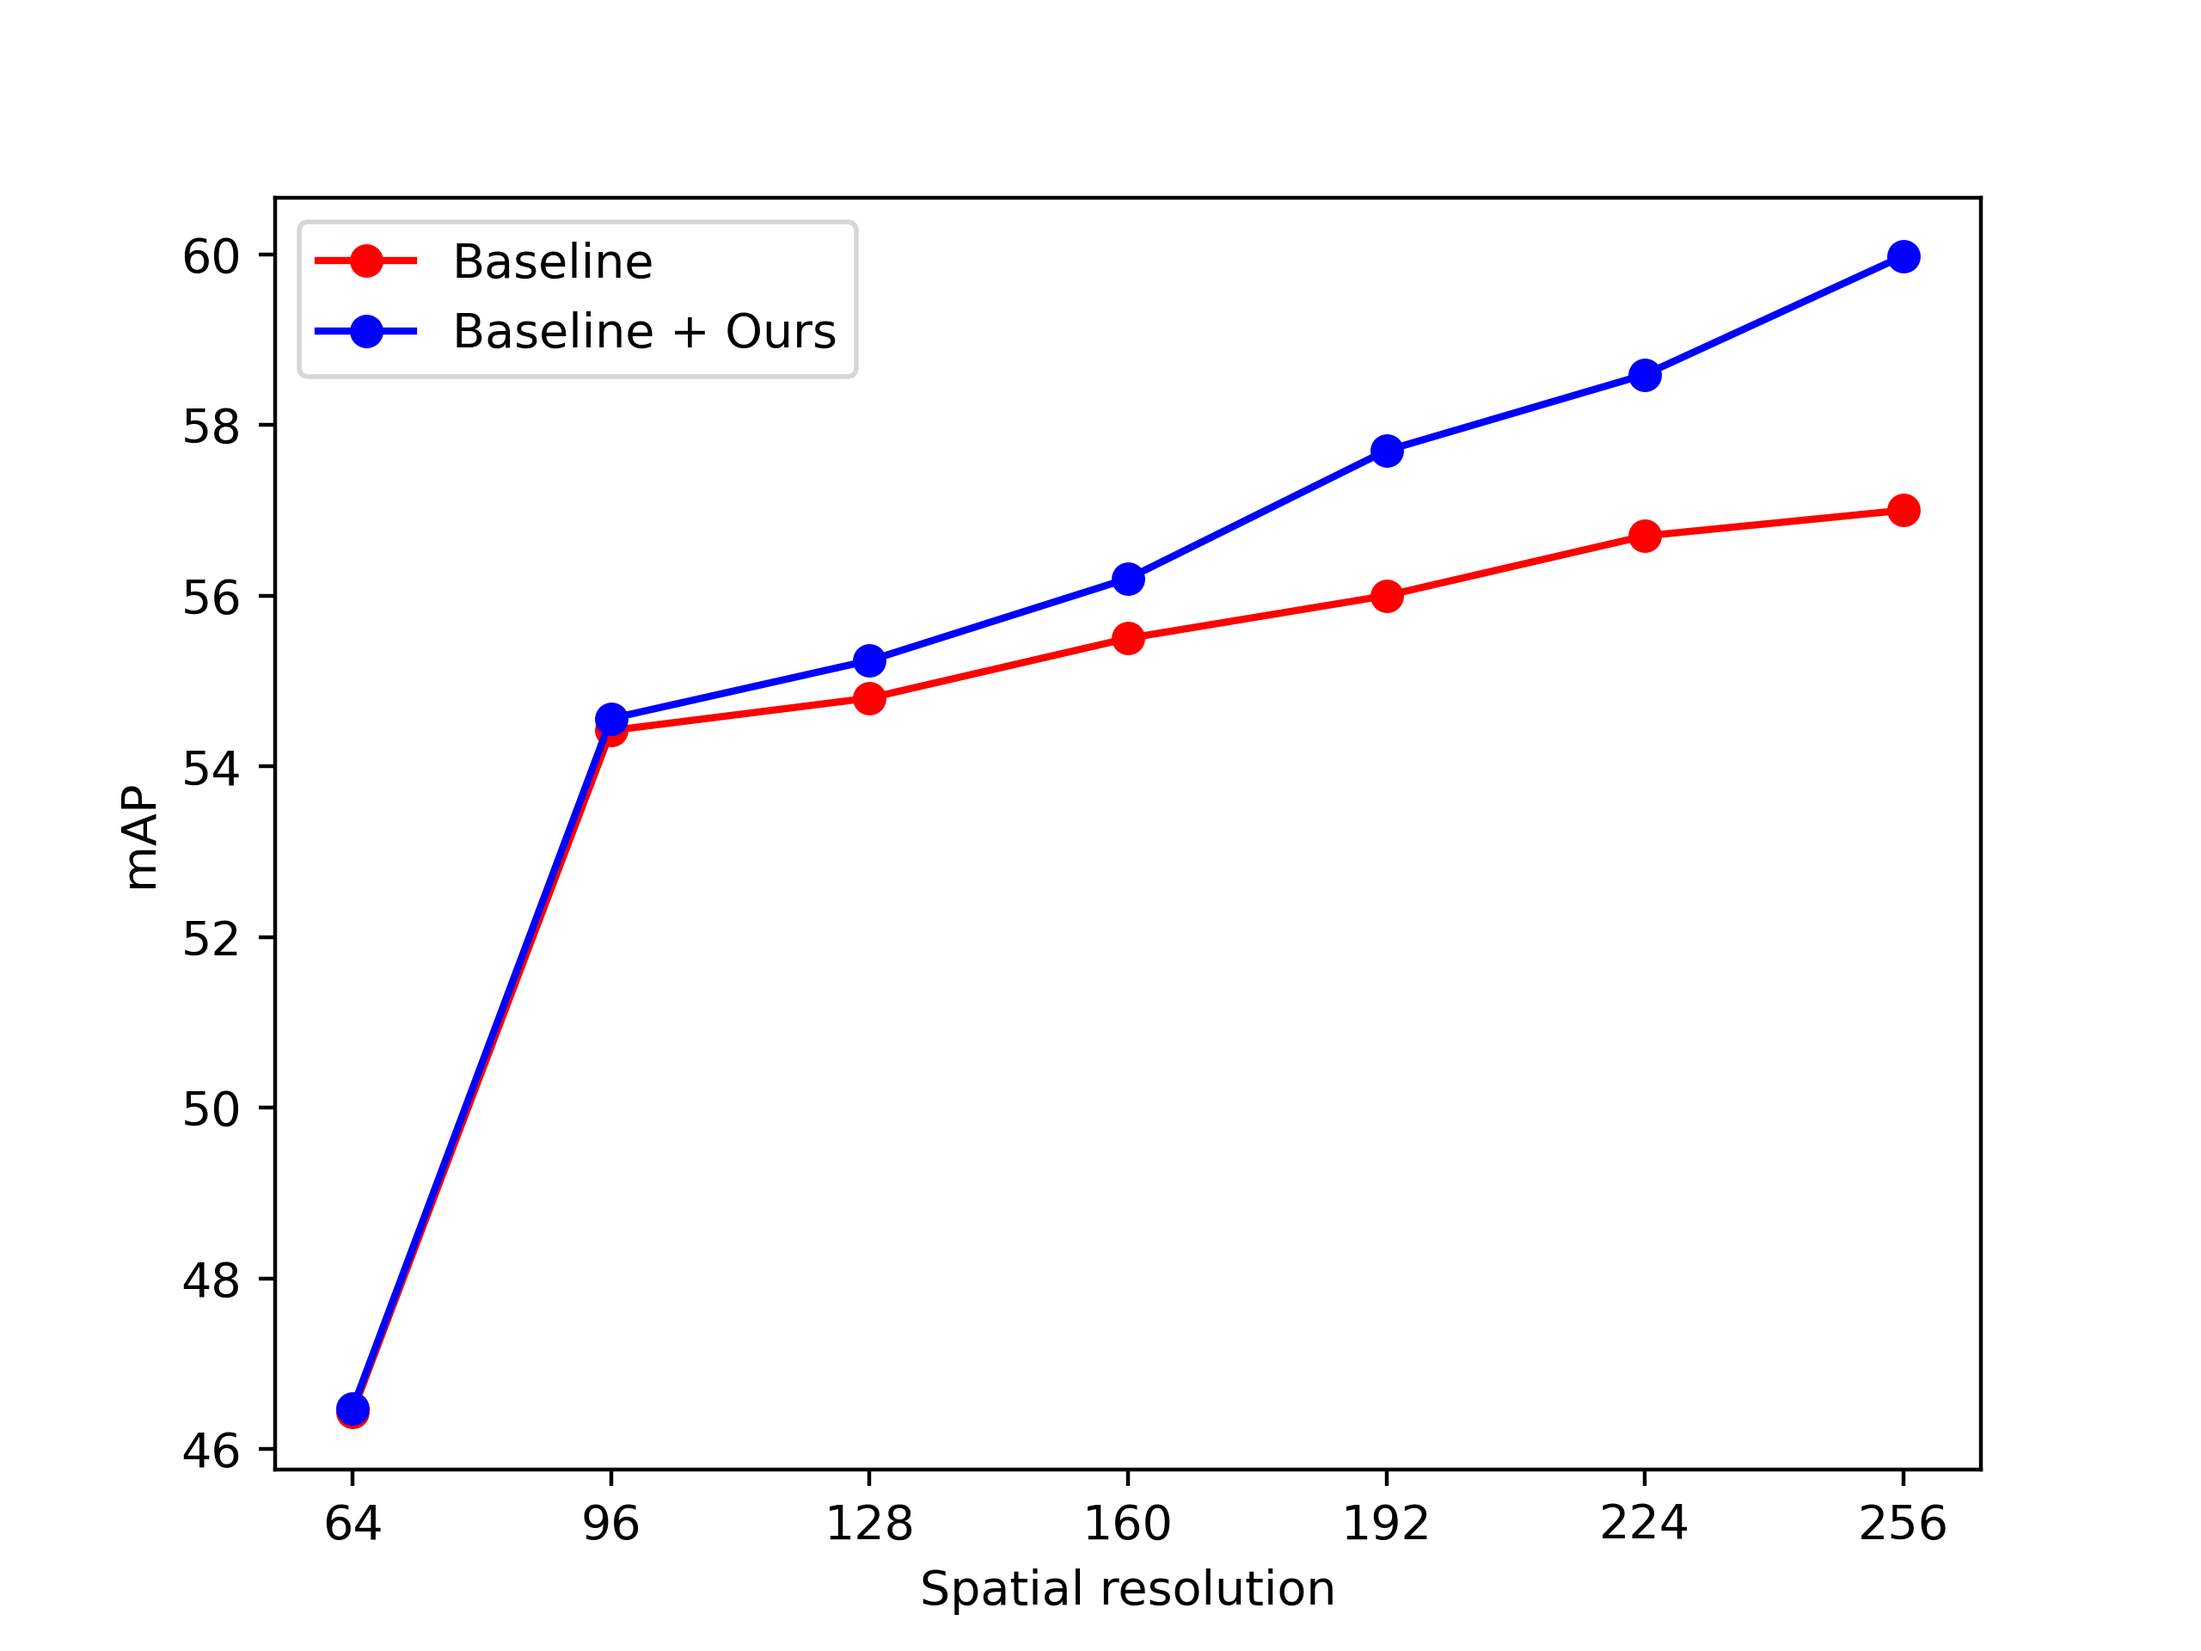
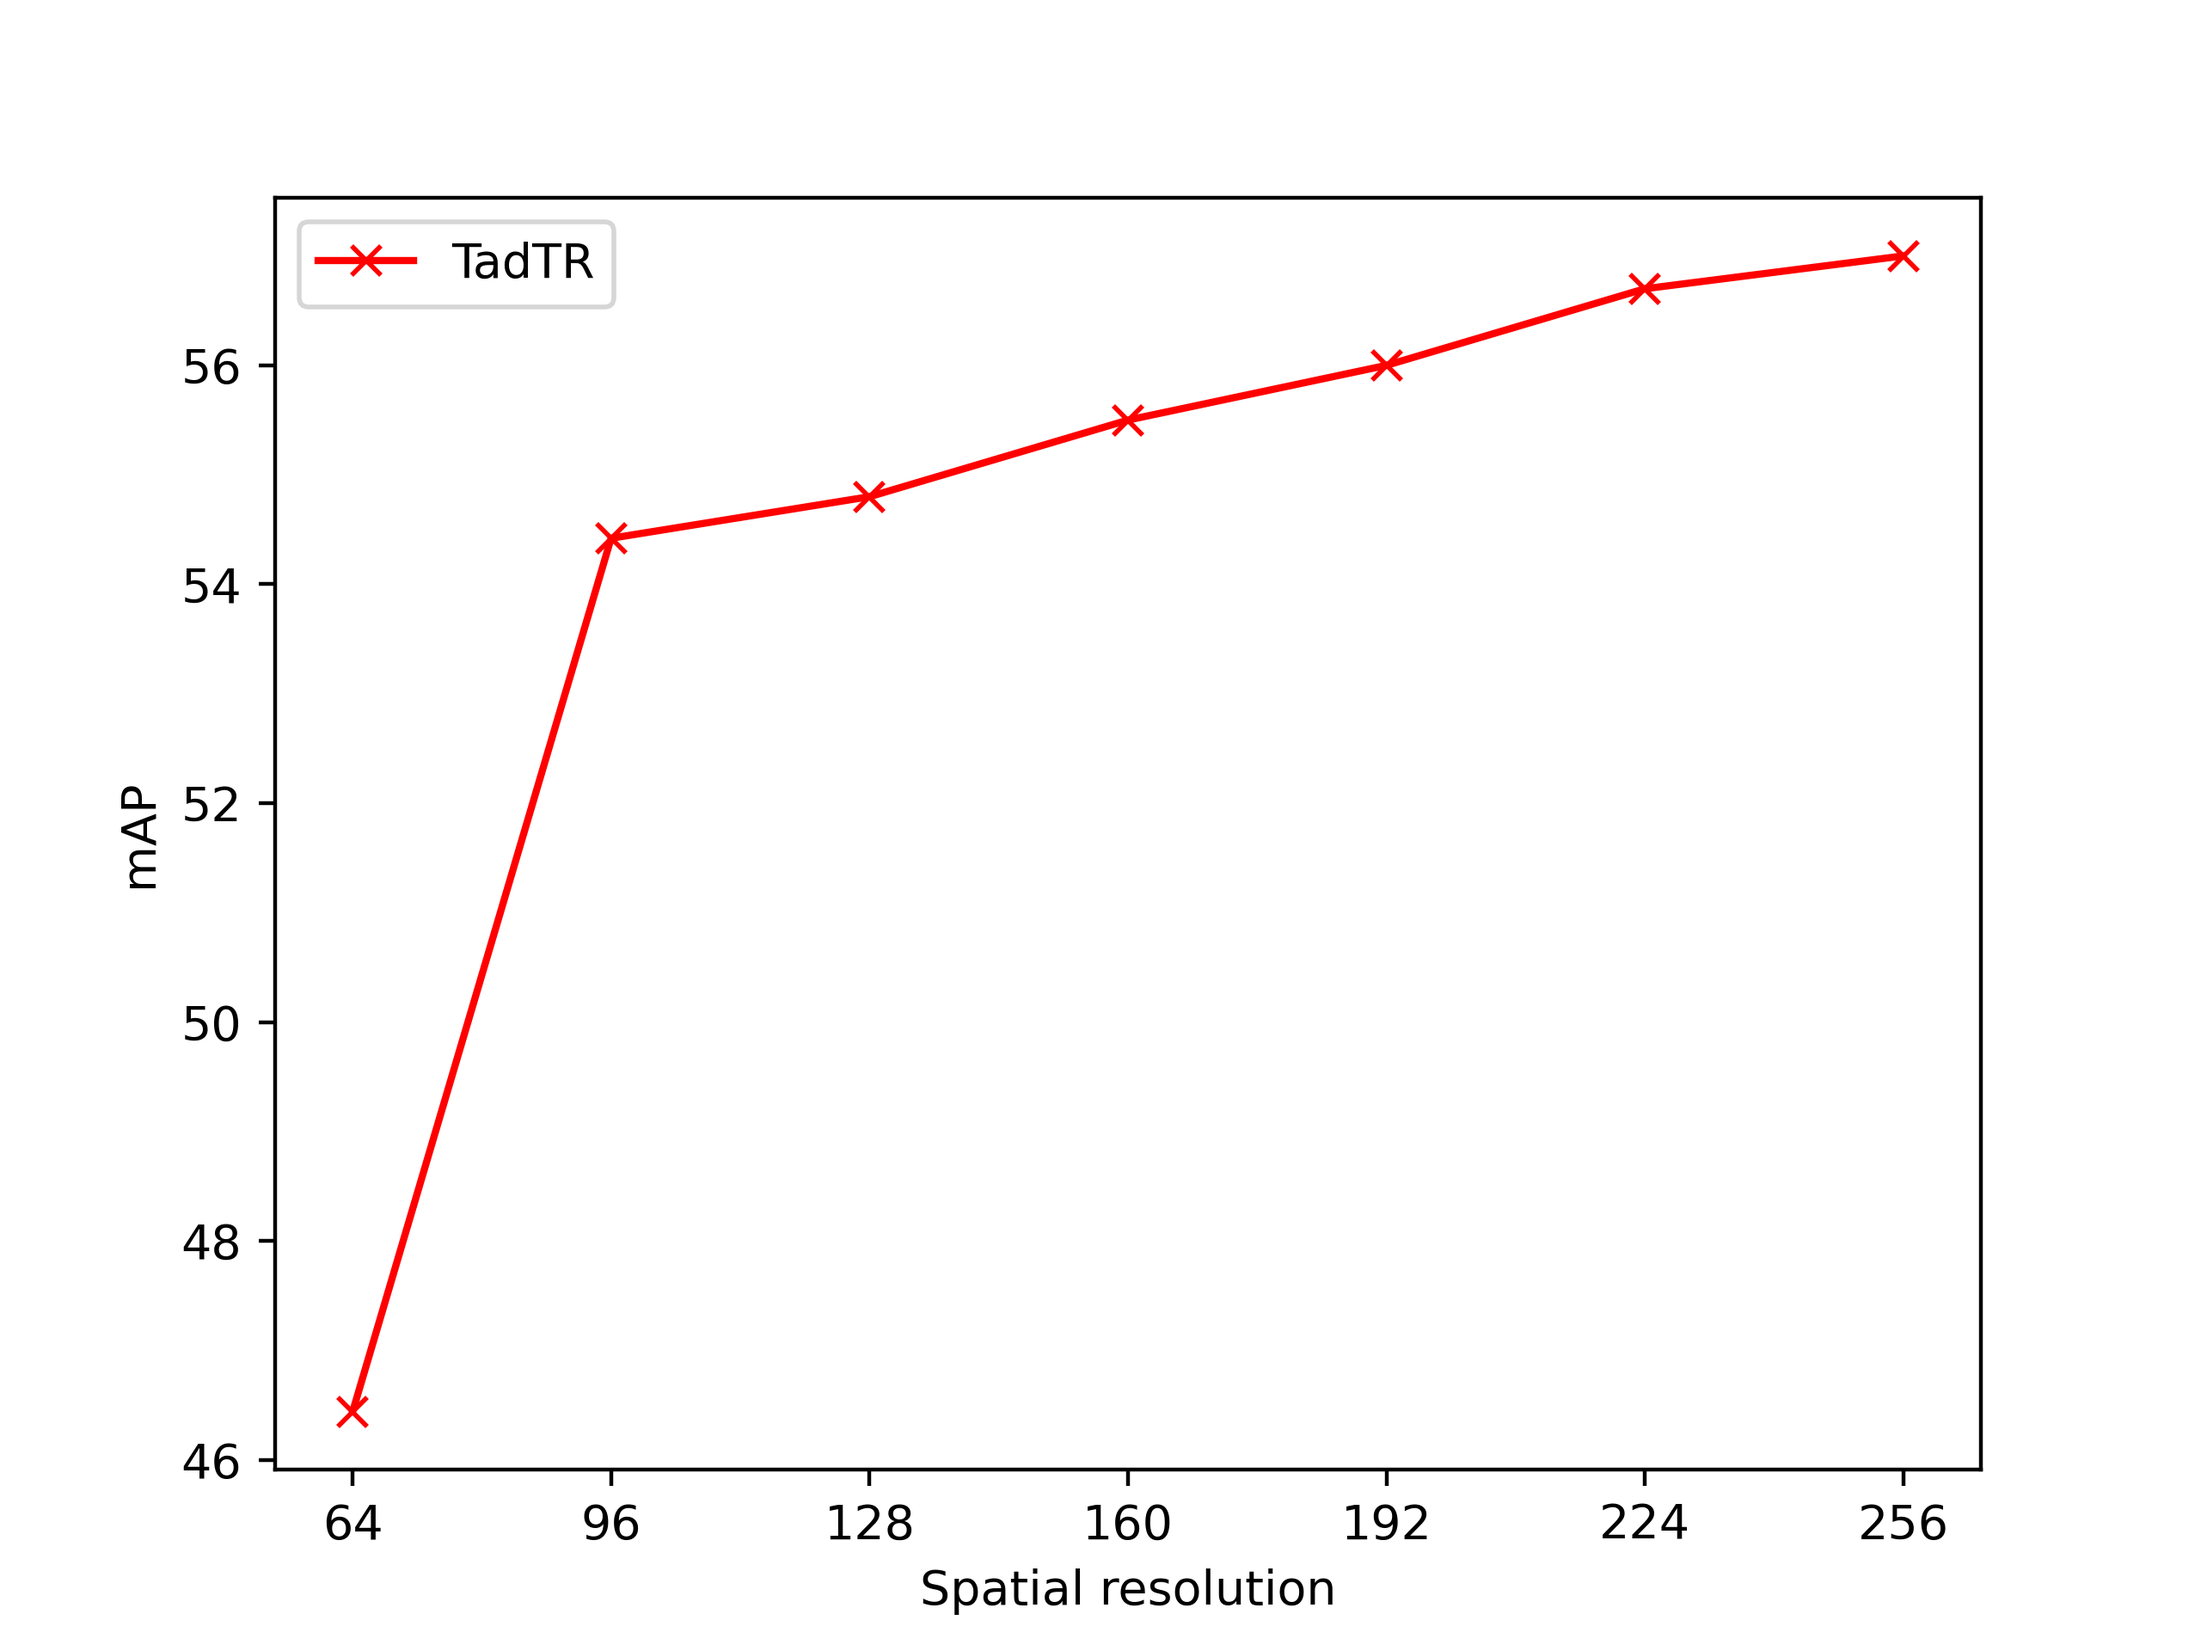
f

diff --git a/models/video_encoder_archs/slowfast.py b/models/video_encoder_archs/slowfast.py
@@ -466,11 +466,11 @@ class ResNet3dSlowFast(nn.Module):
             self.fast_poolers = nn.ModuleList([SpatialPooler('avg')])
             self.num_channels = 2304
         elif pooler == 'twpool':
-            self.slow_poolers = nn.ModuleList([SpatialPooler('twpool', input_dim=2048, base_dim=512, num_layers=12)])
-            self.fast_poolers = nn.ModuleList([SpatialPooler('twpool', input_dim=256, base_dim=64, num_layers=12)])
+            self.slow_poolers = nn.ModuleList([SpatialPooler('twpool', input_dim=2048, base_dim=256, num_layers=2)])
+            self.fast_poolers = nn.ModuleList([SpatialPooler('twpool', input_dim=256, base_dim=32, num_layers=2)])
             # self.num_channels = 2304
-            self.num_channels = 576
-            # self.num_channels = 288
+            # self.num_channels = 576
+            self.num_channels = 288
             # self.num_channels = 1152
         else:
             assert NotImplementedError

diff --git a/plot.py b/plot.py
@@ -2,15 +2,15 @@ import matplotlib.pyplot as plt
 
 x = [64, 96, 128, 160, 192, 224, 256]
 y = [46.44, 54.42, 54.8, 55.5, 56.0, 56.7, 57.0]
-plt.plot(x, y, "ro-", label="Baseline")
+plt.plot(x, y, "rx-", label="TadTR")
 plt.xticks(x)
 # plt.ylim(10, 60)
 # plt.xlim(0, 30)
 
-x = [64, 96, 128, 160, 192, 224, 256]
-y = [46.48, 54.56, 55.24, 56.2, 57.7, 58.59, 59.98]
-plt.plot(x, y, "bo-", label="Baseline + Ours")
-plt.xticks(x)
+# x = [64, 96, 128, 160, 192, 224, 256]
+# y = [46.48, 54.56, 55.24, 56.2, 57.7, 58.59, 59.98]
+# plt.plot(x, y, "bx-", label="TadTR + Ours")
+# plt.xticks(x)
 
 # plt.tight_layout()
 plt.xlabel("Spatial resolution")
